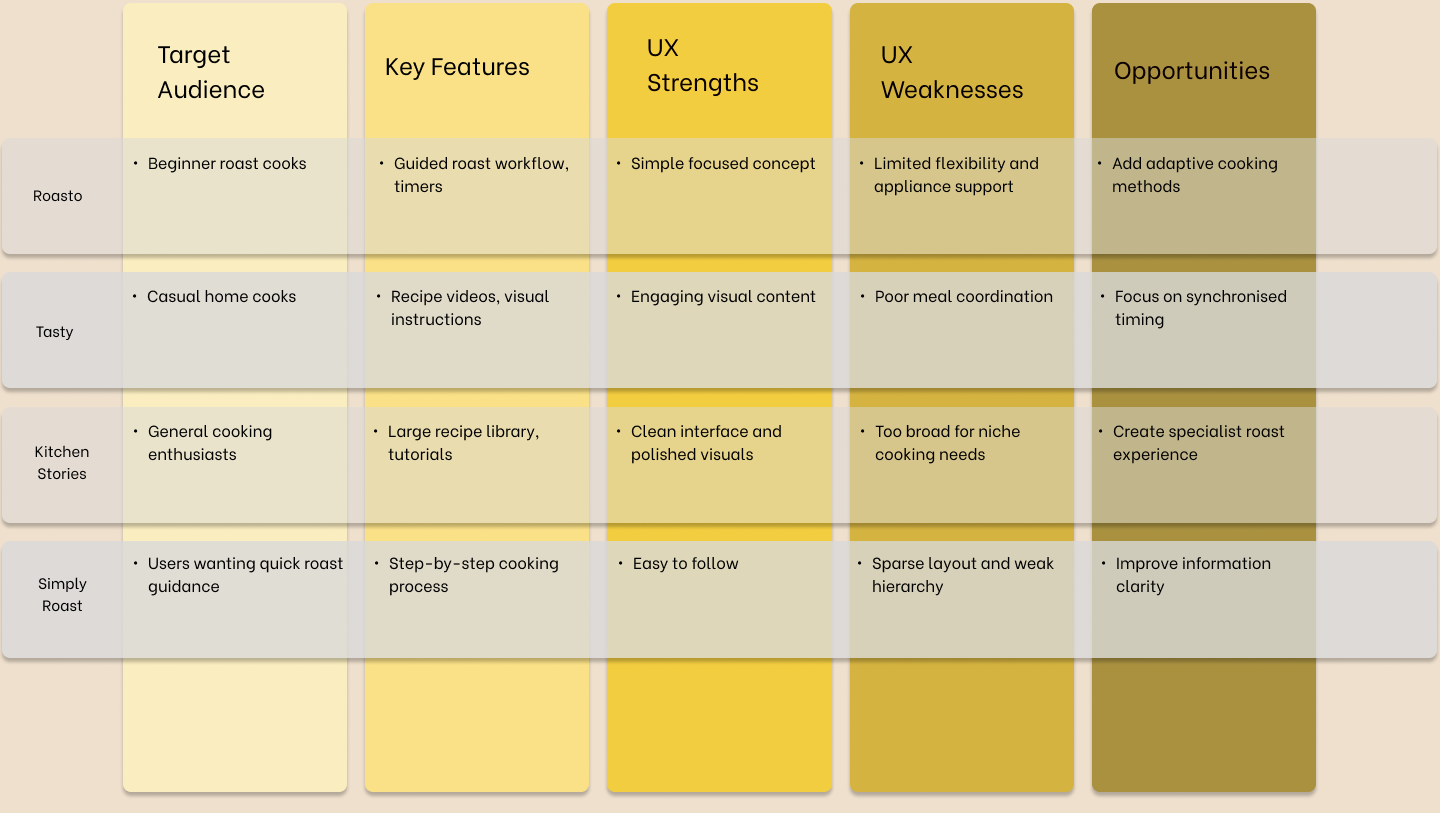
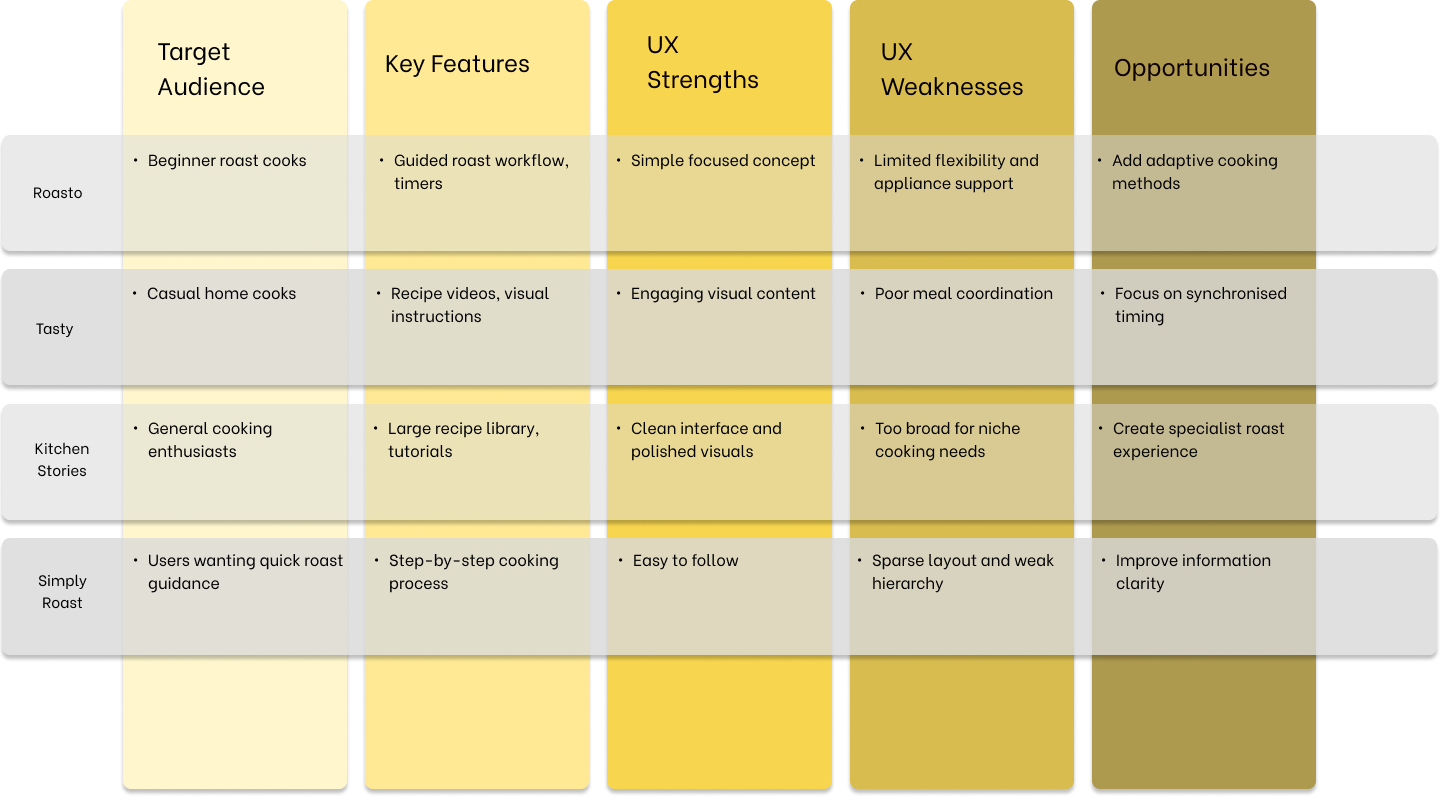
Figma embed

diff --git a/case-study-one.html b/case-study-one.html
@@ -525,10 +525,9 @@
 
 <header class="site-header">
   <nav class="nav">
-    <div class="logo" data-trigger="home">
+    <a href="index.html" class="logo">
       <img src="images/logo.png" alt="HK logo">
-    </div>
-
+    </a>
     <div class="nav-links">
       <a href="index.html">Home</a>
       <a href="index.html?page=work">Work</a>
@@ -653,10 +652,14 @@
       The journey map helped me think beyond the cooking instructions themselves. I wanted to understand where a user might discover the product, what would make them trust it, and where stress would be most likely to creep back in during the cooking process.
     </p>
 
-    <figure class="artifact">
-      <img src="images/custjourney.png" alt="Roost customer journey map">
-      <figcaption class="caption">Customer journey map exploring discovery, planning, cooking, and repeat use.</figcaption>
-    </figure>
+    <img
+      src="images/custjourney.png"
+      alt="Roost customer journey map"
+      class="journey-map">
+
+    <p class="caption">
+      Customer journey map exploring discovery, planning, cooking, and repeat use.
+    </p>
   </section>
 
   <section class="section section-wide js-reveal">
@@ -667,10 +670,14 @@
       Looking at recipe apps and roast timing tools helped clarify where Roost could sit. Recipe apps were often polished, but not focused on coordinating a whole meal. Timing tools were useful, but often felt narrow or functional. The opportunity was to combine enough guidance with enough calm.
     </p>
 
-    <figure class="artifact">
-      <img src="images/companalysis.png" alt="Roost competitor analysis grid">
-      <figcaption class="caption">Competitor analysis looking at recipe discovery, roast calculators, timing tools, and cooking support.</figcaption>
-    </figure>
+    <img
+      src="images/companalysis.png"
+      alt="Roost competitor analysis grid"
+      class="comp-analysis">
+
+    <p class="caption">
+      Competitor analysis looking at recipe discovery, roast calculators, timing tools, and cooking support.
+    </p>
   </section>
 
   <section class="section section-narrow js-reveal">
@@ -769,6 +776,32 @@
       <figcaption class="caption">Roost wireframe showing the user journey.</figcaption>
     </figure>
   </section>
+
+  <section class="section section-wide js-reveal">
+
+  <p class="section-kicker">Prototype</p>
+
+  <h2>Testing the cooking flow before visual design</h2>
+
+  <p class="section-narrow">
+    Before moving into high-fidelity designs, I created an interactive low-fidelity
+    prototype to test the overall cooking journey. This helped validate the
+    sequence of steps, navigation patterns, and the level of guidance users would
+    need throughout the cooking process.
+  </p>
+
+  <div class="prototype-frame">
+  <iframe
+    src="https://embed.figma.com/proto/KMiUqo6JP0696jeMdyaDzG/Roost-Design?node-id=132-916&p=f&viewport=-53%2C-89%2C0.56&scaling=min-zoom&content-scaling=fixed&starting-point-node-id=132%3A916&page-id=132%3A915&embed-host=share"
+    allowfullscreen>
+  </iframe>
+</div>
+
+  <p class="caption">
+    Interactive low-fidelity prototype exploring the guided cooking experience.
+  </p>
+
+</section>
 
   <section class="section section-narrow js-reveal">
     <p class="section-kicker">Solution</p>

diff --git a/css/styles.css b/css/styles.css
@@ -1129,6 +1129,35 @@ u {
   color: var(--secondary-text, #6B625B);
 }
 
+.journey-map {
+  width: 100%;
+  display: block;
+  border-radius: 12px;
+}
+
+.concurrency-visual {
+  width: 100%;
+  height: 320px;
+  background: rgba(17, 17, 17, 0.06);
+  border-radius: 28px;
+}
+
+.prototype-frame {
+  width: 380px;
+  height: 620px;
+  margin: 3rem auto;
+  overflow: hidden;
+  border-radius: 16px;
+}
+
+.prototype-frame iframe {
+  width: 520px;
+  height: 820px;
+  border: none;
+  transform: scale(0.75);
+  transform-origin: top left;
+}
+
 .flow-steps {
   display: flex;
   flex-wrap: wrap;

diff --git a/case-study-two.html b/case-study-two.html
@@ -203,9 +203,9 @@
 
 <header class="site-header">
   <nav class="nav">
-    <div class="logo" data-trigger="home">
+    <a href="index.html" class="logo">
       <img src="images/logo.png" alt="HK logo">
-    </div>
+    </a>
     <div class="nav-links">
       <a href="index.html">Home</a>
       <a href="index.html?page=work">Work</a>